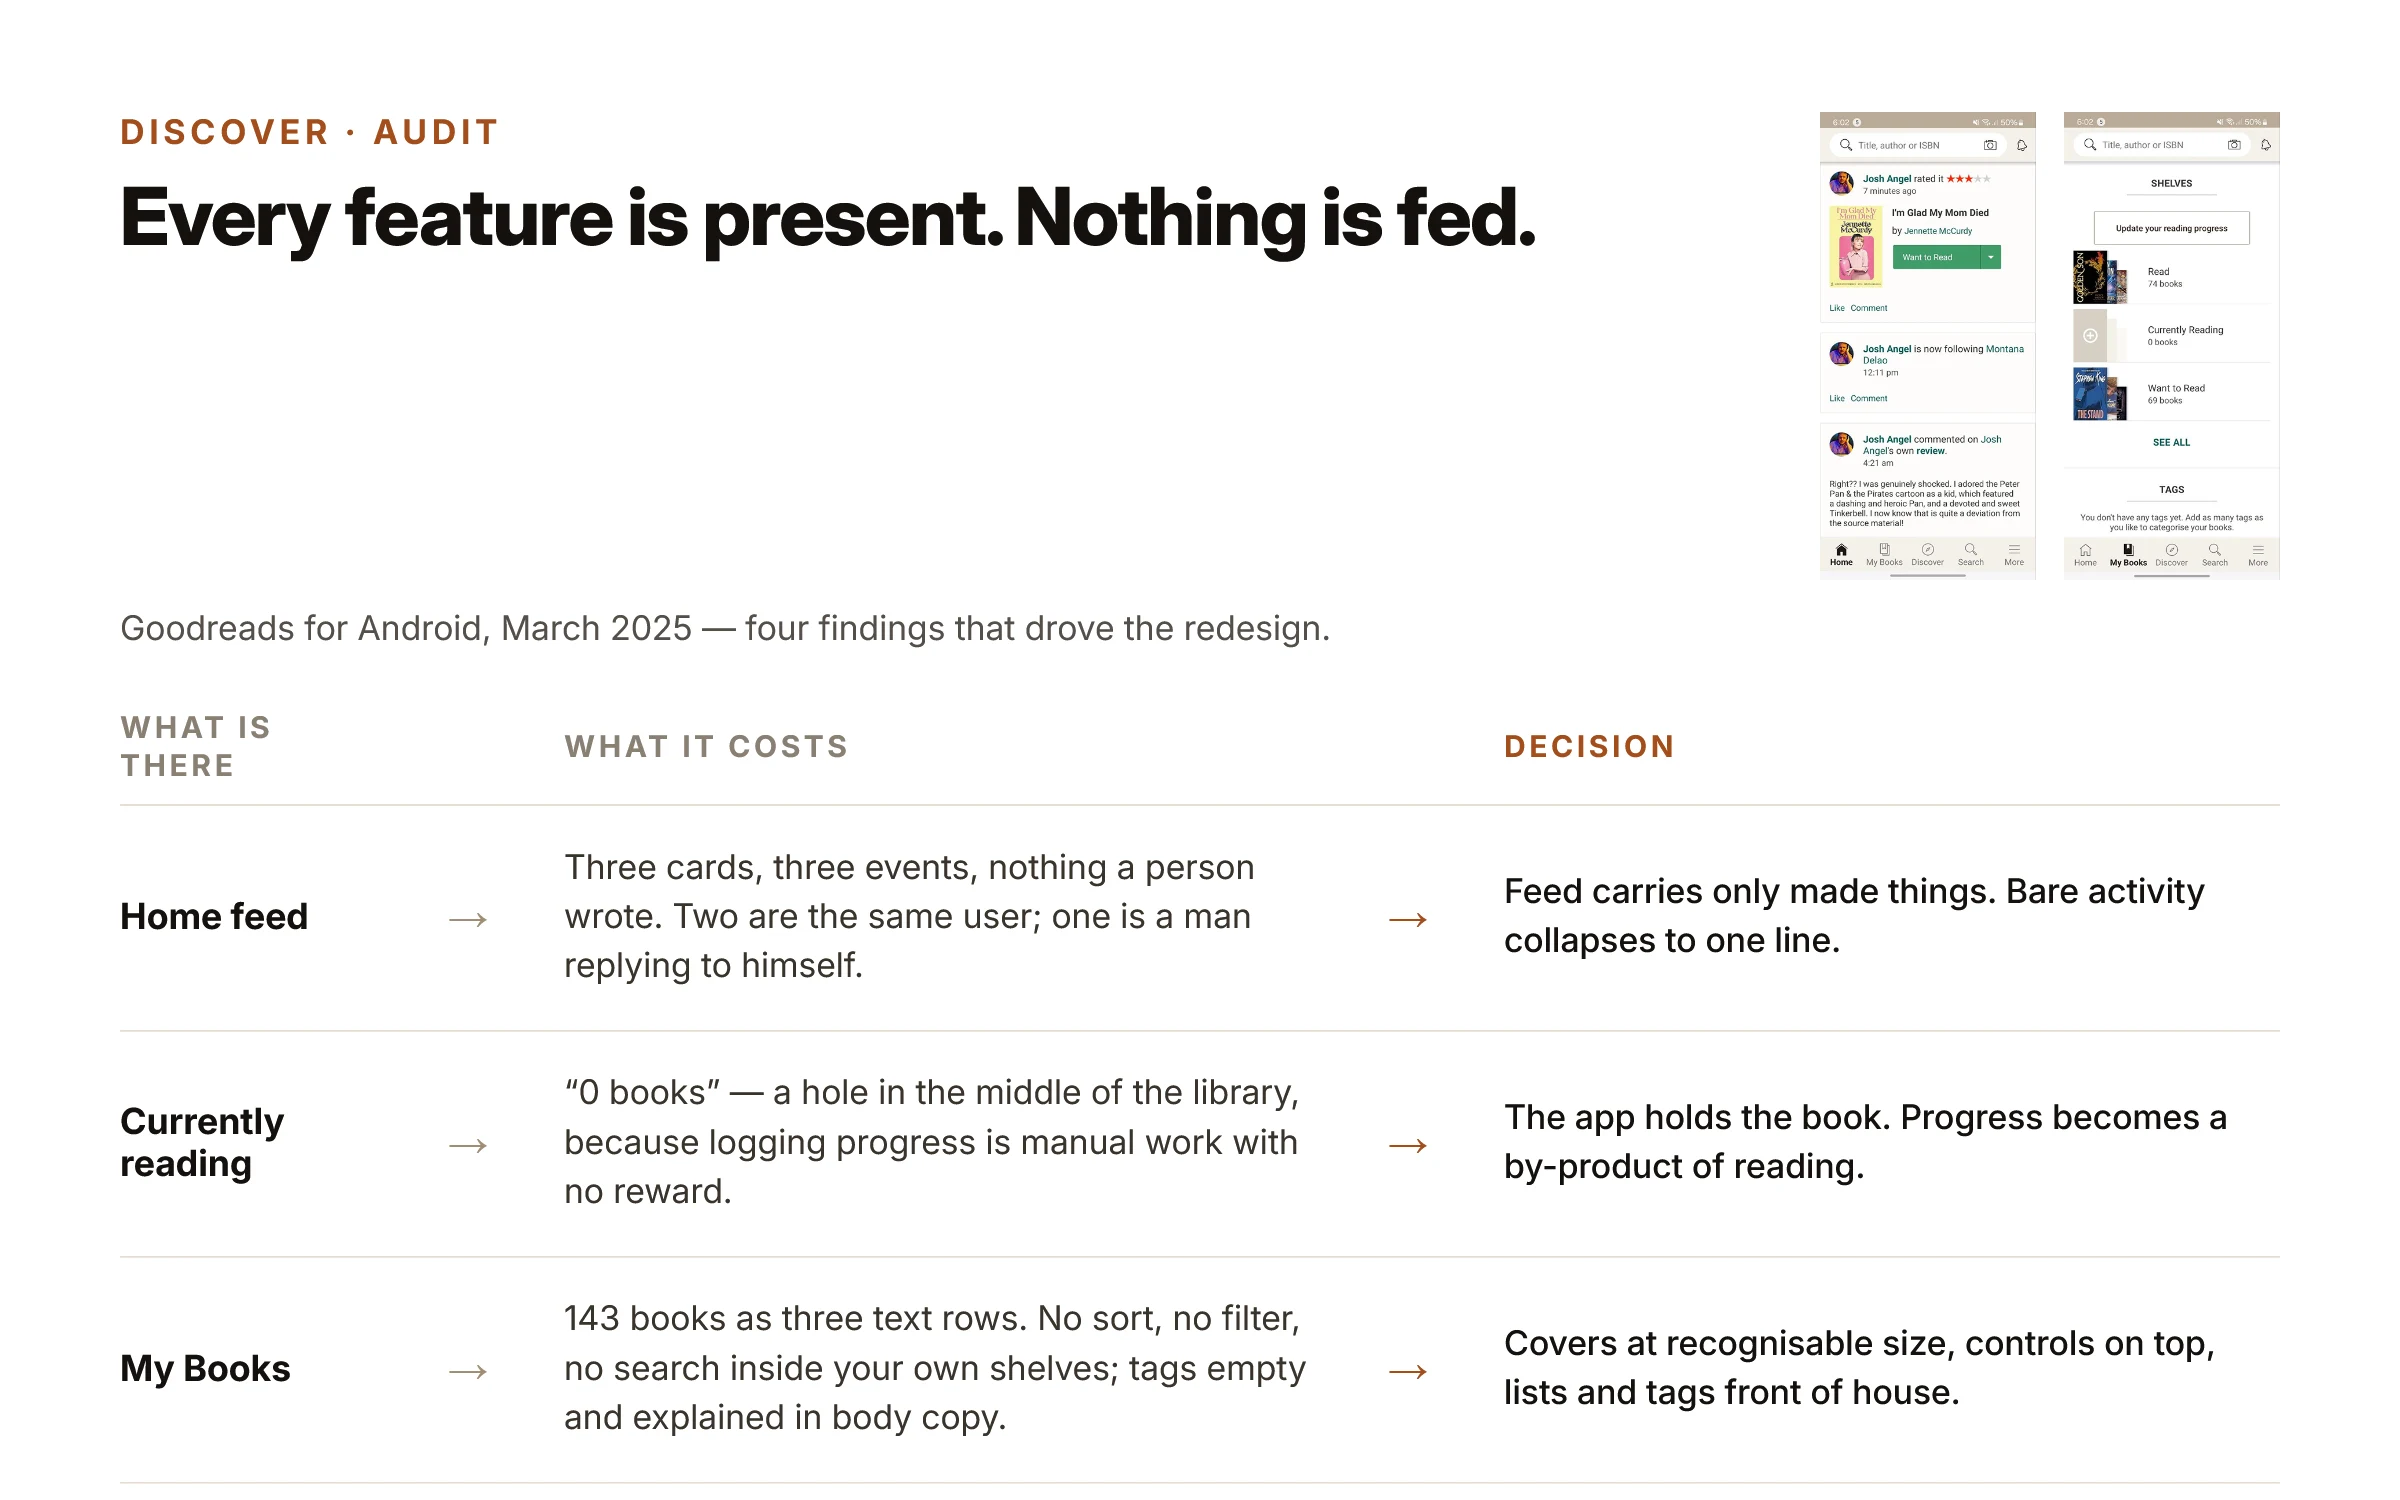
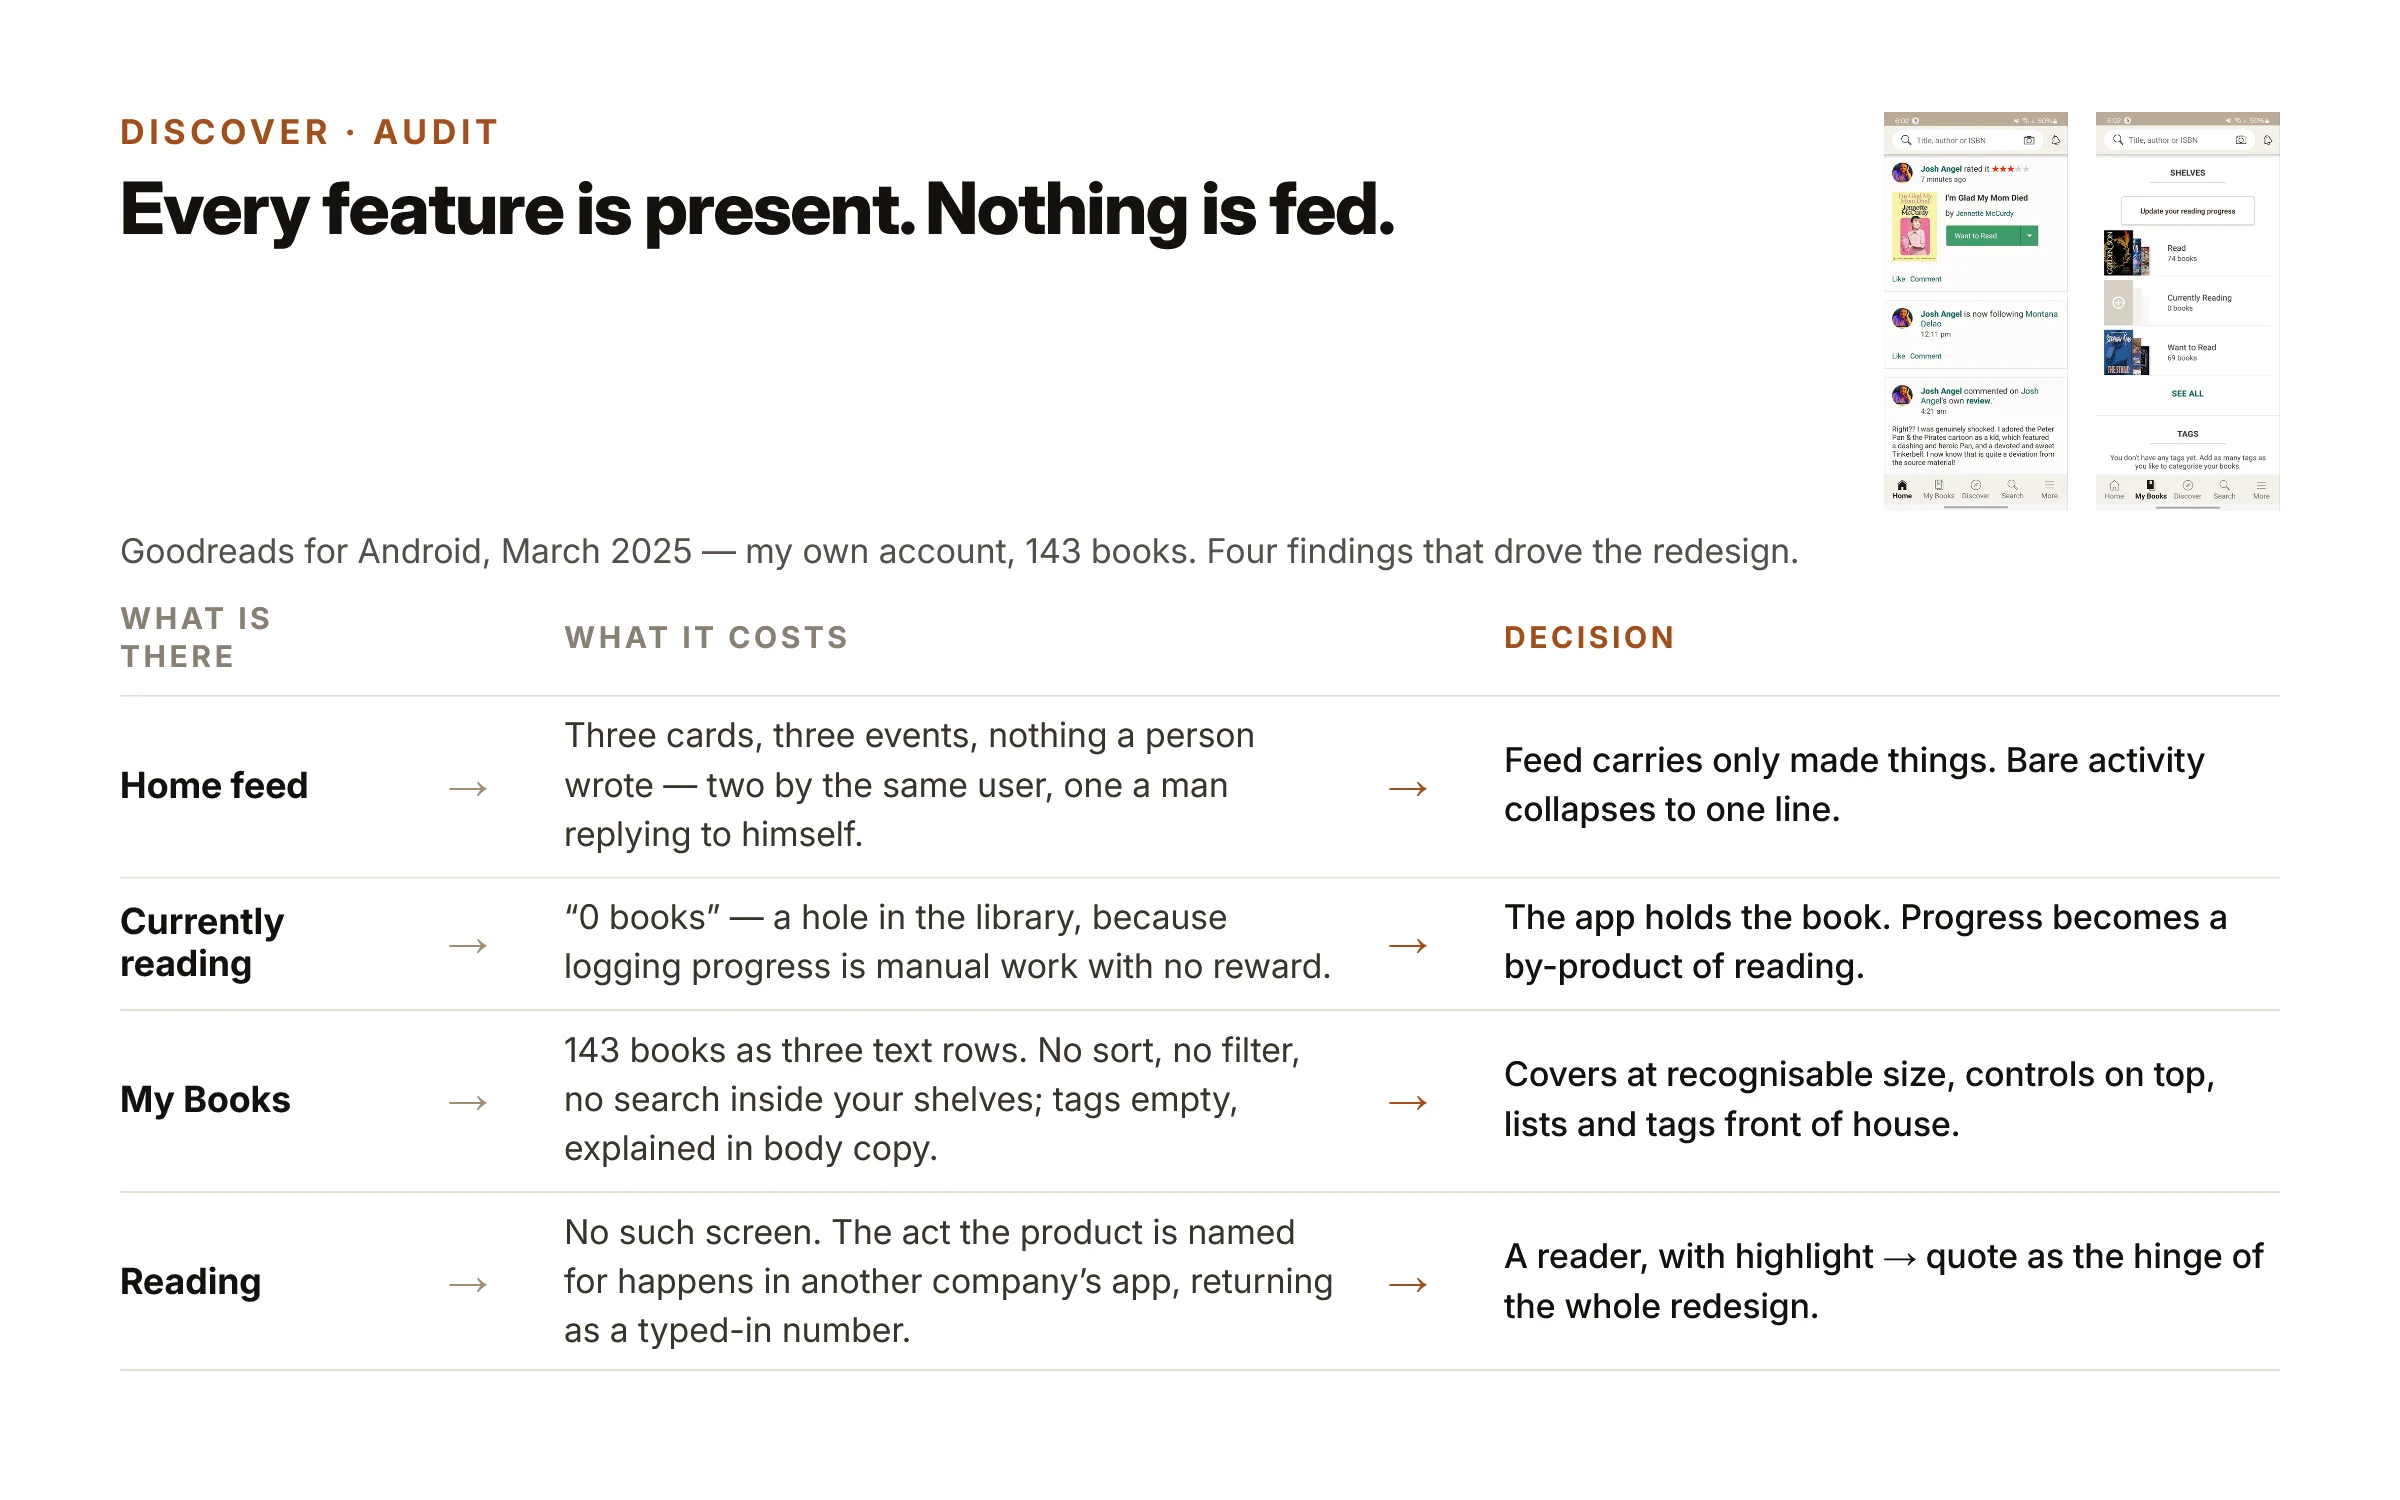
Goodreads: updated process artifacts, three new ones
Re-exported all nine, plus boundary, competitive-matrix and process-map.

- Discover now runs audit, boundary, architecture-today, competitive matrix,
  and the prose names the passage journey and the competitive whitespace so
  the two new diagrams have something to attach to.
- Define opens on Maya and Sam by name before the thesis.
- Deliver closes on the process map: four stages, the thesis fixed at the end
  of Define, and what each stage produced.

split.webp is back to a full 2400x1500 — the closing band fits now, so the
trim from the previous commit is reverted and the caption no longer has to
carry the line that was cut off.

The personas caption is rewritten. The artboard previously said the personas
were assumptions with no participants recruited; it now says informal
conversations with readers, public reviews and the teardown, directional
rather than statistical. The caption said the old thing and would have
contradicted the image.

diff --git a/src/data/content.ts b/src/data/content.ts
@@ -397,18 +397,20 @@ export const projects: Project[] = [
     sections: [
       {
         heading: 'Discover',
-        body: 'Goodreads earns its loyalty through community, not polish. Working from the live app and my own use of it as a reader, four failures kept surfacing. Reading itself is absent, so progress is a number you type in, quotes get screenshotted into camera rolls, and notes end up in other apps. The feed is a wall of events, where a line saying someone rated a book three stars is not something anyone can reply to or wants to read. Discovery has left for short video, and the app answers with bestseller grids. And organisation punishes the organised, with shelves, tags and lists buried under a UI that treats every book as a row in a table.',
+        body: 'Goodreads earns its loyalty through community, not polish. Working from the live app and my own use of it as a reader, four failures kept surfacing. Reading itself is absent, so progress is a number you type in, quotes get screenshotted into camera rolls, and notes end up in other apps. The feed is a wall of events, where a line saying someone rated a book three stars is not something anyone can reply to or wants to read. Discovery has left for short video, and the app answers with bestseller grids. And organisation punishes the organised, with shelves, tags and lists buried under a UI that treats every book as a row in a table. Tracing where a passage actually goes made the shape of it plain: four apps and six steps, with Goodreads arriving last and receiving only a number. Nobody else owns the whole set either, since Kindle holds the reading but refuses to be social and the taste apps never hold the book.',
         media: [
-          { src: '/work/goodreads/process/audit-current.webp', caption: 'Audit of the live Android app. Four findings, each turned into a decision the redesign had to answer to.' },
+          { src: '/work/goodreads/process/audit-current.webp', caption: 'Teardown of the shipped Android app on my own account. Four findings, each one turned into a decision the redesign had to answer to.' },
+          { src: '/work/goodreads/process/boundary.webp', caption: 'Where a passage actually goes today: four apps, six steps, nothing searchable, and Goodreads arriving last to receive a number. Moving one boundary is what pays for four features at once.' },
           { src: '/work/goodreads/process/ia-before.webp', caption: 'The architecture as it stands: three jobs split across five tabs, every one of them ending in “More”, and no home at all for the reading.' },
+          { src: '/work/goodreads/process/competitive-matrix.webp', caption: 'The landscape. Kindle owns reading and refuses to be social, StoryGraph owns taste and never holds the book, BookTok owns discovery and owns nothing else.' },
         ],
       },
       {
         heading: 'Define',
-        body: 'One line held the redesign together: make reading native, and everything social becomes a by-product of it. If the app holds the book, it knows your page. Knowing your page means highlights become quotes without any filing work, reviews can start from passages you already saved, spoilers can be hidden by where you are rather than by a stranger’s guess, and a finished book can be a moment rather than a form. One structural decision pays for four features. The constraint alongside it was to stay recognisably Goodreads, because the brand equity is real. What changes is what the surface is for.',
+        body: 'Two readers framed it. Maya keeps what she reads and loses it to a camera roll; Sam finds books on video and never starts them. Neither gap closes without the app holding the book. One line held the redesign together: make reading native, and everything social becomes a by-product of it. If the app holds the book, it knows your page. Knowing your page means highlights become quotes without any filing work, reviews can start from passages you already saved, spoilers can be hidden by where you are rather than by a stranger’s guess, and a finished book can be a moment rather than a form. One structural decision pays for four features. The constraint alongside it was to stay recognisably Goodreads, because the brand equity is real. What changes is what the surface is for.',
         media: [
-          { src: '/work/goodreads/process/personas.webp', caption: 'Two assumption personas, built from the teardown and public complaints. Labelled as assumptions rather than dressed up as research nobody ran.' },
-          { src: '/work/goodreads/process/split.webp', caption: 'The restraint call: loved-and-untouchable on one side, cluttered-and-fixable on the other. Every change had to pass one test, that a reader returning after two years still knows where they are.' },
+          { src: '/work/goodreads/process/personas.webp', caption: 'Maya and Sam, built from informal conversations with readers, a read of public reviews, and the teardown. Directional rather than statistical, and labelled that way wherever they appear.' },
+          { src: '/work/goodreads/process/split.webp', caption: 'The restraint call: loved-and-untouchable on one side, cluttered-and-fixable on the other. It set the scope, and it is why this is a redesign rather than a rebrand.' },
         ],
       },
       {
@@ -425,6 +427,7 @@ export const projects: Project[] = [
         body: 'Eighteen screens across four tabs, one design system, and a hero flow that carries the argument: finish a book, rate it, write the review, watch it land on your shelf. The payoff of native reading shows up in that review screen, where the quotes you kept while reading sit under the draft ready to pull in, so what you wrote while reading becomes what you publish. Every flow is leavable, because finishing without rating is a complete act and so is rating without reviewing. It is a self-initiated concept, so it has not been usability tested and I would not call it validated. The next step is an interactive prototype of that flow, so the argument can be felt rather than read.',
         media: [
           { src: '/work/goodreads/process/hero-flow.webp', caption: 'The hero flow, left to right: the last page, the rating, the review with kept quotes ready to pull in, and the book landing on the shelf.' },
+          { src: '/work/goodreads/process/process-map.webp', caption: 'How the whole thing was made. Four stages, a thesis fixed at the end of Define and never moved, and what each stage actually produced.' },
         ],
       },
     ],
